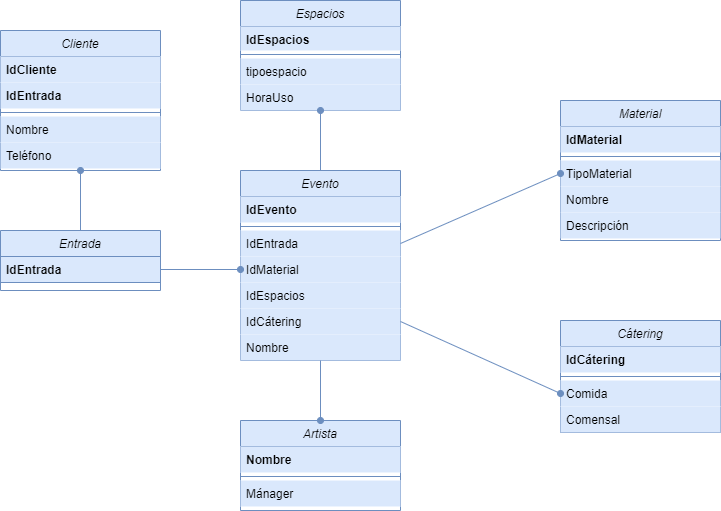
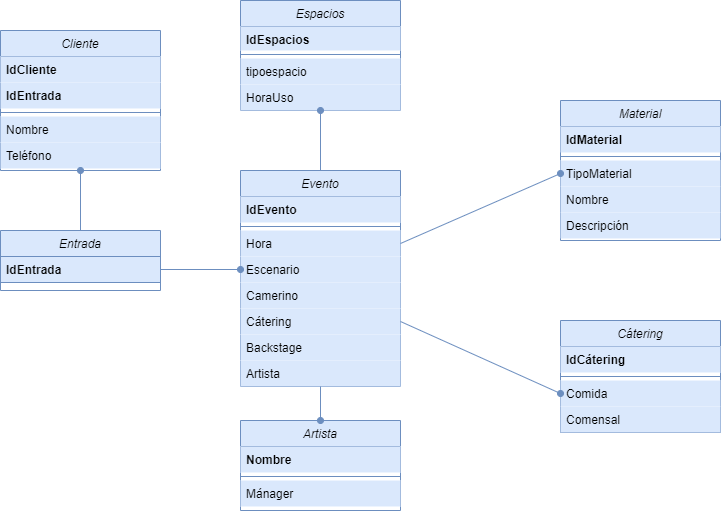
Carga de datos de prueba

Changed region(s): [[0.3356, 0.6751, 0.5798, 0.7632], [0.3356, 0.4697, 0.4272, 0.5871], [0.3356, 0.6164, 0.4272, 0.6458]]

diff --git a/Apartados/Modelo_fisico.md b/Apartados/Modelo_fisico.md
@@ -61,19 +61,103 @@ CREATE TABLE Cliente (
 ```sql
 CREATE TABLE Evento (
     IdEvento NUMERIC(5),
-    IdEntrada NUMERIC(5),
-    IdMaterial NUMERIC(5),
-    IdEspacios NUMERIC(5),
-    IdCátering NUMERIC(5),
-    Nombre VARCHAR(30),
+    Hora VARCHAR(5),
+    Escenario VARCHAR(30),
+    Camerino VARCHAR(30),
+    Cátering NUMERIC(5),
+    Backstage VARCHAR(30),
+    Artista VARCHAR(30),
     CONSTRAINT PK_IdEvento PRIMARY KEY(IdEvento),
-    CONSTRAINT IdEntrada_FK FOREIGN KEY (IdEntrada) REFERENCES Entrada(IdEntrada),
-    CONSTRAINT IdMaterial_FK FOREIGN KEY (IdMaterial) REFERENCES Material(IdMaterial),
-    CONSTRAINT IdEspacios_FK FOREIGN KEY (IdEspacios) REFERENCES Espacios(IdEspacios),
-    CONSTRAINT IdCátering_FK FOREIGN KEY (IdCátering) REFERENCES Cátering(IdCátering),
-    CONSTRAINT Nombre_FK FOREIGN KEY (Nombre) REFERENCES Artista(Nombre)
+    CONSTRAINT Cátering_FK FOREIGN KEY (Cátering) REFERENCES Cátering(IdCátering),
+    CONSTRAINT Artista FOREIGN KEY (Artista) REFERENCES Artista(Nombre)
 );
 ```
 
 ## 4.3. Carga de datos de prueba
 
+```sql
+INSERT INTO Espacios (IdEspacios, tipoespacio, HoraUso) VALUES
+    (1, 'Escenario 1', '19:30'),
+    (2, 'Escenario 2', '22:00'),
+    (3, 'Escenario 3', '20:30'),
+    (4, 'Escenario 4', '20:00'),
+    (5, 'Escenario 5', '21:00'),
+    (6, 'Escenario 6', '21:30'),
+    (7, 'Camerino A', '18:00'),
+    (8, 'Camerino B', '20:30'),
+    (9, 'Camerino C', '19:00'),
+    (10, 'Camerino D', '18:30'),
+    (11, 'Camerino E', '19:30'),
+    (12, 'Camerino F', '20:00'),
+    (13, 'Backstage 1', '19:00'),
+    (14, 'Backstage 2', '21:30'),
+    (15, 'Backstage 3', '20:00'),
+    (16, 'Backstage 4', '19:30'),
+    (17, 'Backstage 5', '20:30'),
+    (18, 'Backstage 6', '21:00');
+```
+```sql
+INSERT INTO Material (IdMaterial, TipoMaterial, Nombre, Descripción) VALUES
+    (1, 'Sonido', 'Micrófono', 'Permite la grabación de sonido'),
+    (2, 'Sonido', 'Altavoz', 'Permite la salida de sonido'),
+    (3, 'Sonido', 'Mesa de mezclas', 'Permite la regulación de sonido'),
+    (4, 'Sonido', 'Amplificador', 'Permite la conexión con los altavoces'),
+    (5, 'Luz', 'Foco', 'Permite una correcta iluminación'),
+    (6, 'Luz', 'Leds', 'Mejoran el escenario'),
+    (7, 'Grabación', 'Cámara', 'Permite la captación de imágenes'),
+    (8, 'Grabación', 'Flash', 'Mejora la calidad de la imágen');
+```
+```sql
+INSERT INTO Cátering (IdCátering, Comida, Comensal) VALUES
+    (1, 'Snacks', 'Público'),
+    (2, 'Refrescos', 'Público'),
+    (3, 'Bocadillos', 'Público'),
+    (4, 'Snacks', 'Artistas'),
+    (5, 'Refrescos', 'Artistas'),
+    (6, 'Platos combinados', 'Artistas'),
+    (7, 'Snacks', 'Personal'),
+    (8, 'Refrescos', 'Personal'),
+    (9, 'Bocadillos', 'Personal');
+```
+```sql
+INSERT INTO Artista (Nombre, Mánager) VALUES
+    ('C Tangana', 'Alejandro Ramírez'),
+    ('Aitana', 'Roberto Giménez'),
+    ('Rosalía', 'Guillermo López'),
+    ('Omar Montes', 'Diego González'),
+    ('Enrique Iglesias', 'Lucía Domínguez'),
+    ('Juan Magán', 'Carlos Simón');
+```
+```sql
+INSERT INTO Entrada (IdEntrada) VALUES
+    (1), (2), (3), (4), (5), (6), (7), (8), (9), (10),
+    (11), (12), (13), (14), (15), (16);
+```
+```sql
+INSERT INTO Cliente (IdCliente, IdEntrada, Nombre, Teléfono) VALUES
+    (1, 1, 'Enrique Giménez', 675488215),
+    (2, 2, 'Juan García', 654783126),
+    (3, 3, 'Vicente Montilla', 610459736),
+    (4, 4, 'Alberto Fernández', 684565970),
+    (5, 5, 'Rodrigo Torres', 678423957),
+    (6, 6, 'Natalia Llanos', 600874561),
+    (7, 7, 'Marina Zapatero', 619285106),
+    (8, 8, 'Jorge Calvo', 616946142),
+    (9, 9, 'Hector Martínez', 689764058),
+    (10, 10, 'Ana Solar', 681139826),
+    (11, 11, 'Francisco Rodríguez', 616703456),
+    (12, 12, 'Luis Martín', 62345698),
+    (13, 13, 'David Sánchez', 652869748),
+    (14, 14, 'Lorena Alcántara', 61245963),
+    (15, 15, 'Álvaro Aguilar', 645889415),
+    (16, 16, 'Marta Gil', 654821697);
+```
+```sql
+INSERT INTO Evento (IdEvento, Hora, Escenario, Camerino, Cátering, Backstage, Artista) VALUES
+    (1, '18:00', 'Escenario 1', 'Camerino A', 4, 'Backstage 1', 'Enrique Iglesias'),
+    (2, '20:30', 'Escenario 2', 'Camerino B', 6, 'Backstage 2', 'Rosalía'),
+    (3, '19:00', 'Escenario 3', 'Camerino C', 5, 'Backstage 3', 'Juan Magán'),
+    (4, '18:30', 'Escenario 4', 'Camerino D', 6, 'Backstage 4', 'Omar Montes'),
+    (5, '19:30', 'Escenario 5', 'Camerino E', 4, 'Backstage 5', 'C Tangana'),
+    (6, '20:00', 'Escenario 6', 'Camerino F', 5, 'Backstage 6', 'Aitana');
+```
